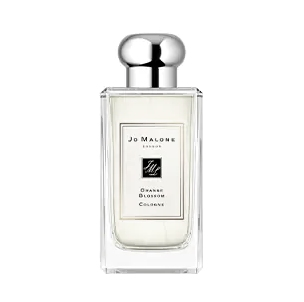
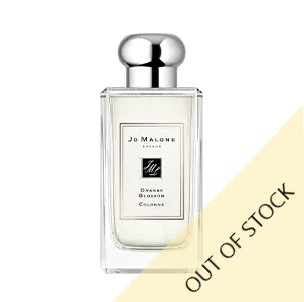
add product status

Changed region(s): [[0.3553, 0.3576, 1.0, 1.0]]

diff --git a/detailmimo.html b/detailmimo.html
@@ -47,6 +47,7 @@
 		<div class="detailed_product_box">
 			<div class="detailed_product_image_box">
 				<img src="img/t5.jpg" alt="product image" class="product_image_1" >
+				<h3 class="state">Out of Stock</h3>
 			</div>
 			<div class="detailed_product_text_box">
 				<h3>Mimosa & Cardamom</h3>
@@ -98,7 +99,7 @@
 				<div class="customer_review_text">
 					<h3 class="review_title">5/5</h3>
 					<h4 class="review_title">I would buy this for any woman in my life.</h4>
-					<p class="review_body">One day when I went to check the mail, my life changed. A random fashion magazine came for my roommate that he did not order. Or at least, he said he did not order it. But that isn't what this review is about. Not really caring to improve my women's fashion knowledge, I went through the magazine looking for the scent samples. I found 5 in the magazine, but this perfume was by far, the best.
+					<p class="review_body">
 					Fast forward a 2 years and I had a girlfriend. What to get her? Call it selfish, but I wanted something that we both could enjoy. Looked back through some old photos to find out the name of this amazing fragrance and boom. Christmas done right. We broke up and sadly she did not return the perfume to me, but its fine, I can buy it for the next lady in my life. Women may break your heart, but this scent? It puts the pieces back together again.</p>
 				</div>
 			</div>
@@ -117,8 +118,7 @@
 					<h4 class="review_title">Smells great but lacks sillage/longevity.</h4>
 					<p class="review_body">I love perfume in general so hopefully this review will help some people whether if they are debating on buying this or not.
 					I fell in love with the scent of this one. I had smelled this originally in one of those little magazine ads but I wanted to wait to smell it in person just because those don't really do justice for how it really smells.
-					Went to Kohls, tested it. Liked it and said I would eventually buy it for myself.
-					The best way I can describe the scent is fruit that is sweet, soapy and powdery but doesn't scream sickly sweet. If you are into the whole fruity/gourmand perfumes such as myself, then this may be up your alley. Out of all Ariana's fragrances, this is one of her more mature scents. Not saying that's a bad thing. Not saying you'll smell like an old grandma either. However, I wouldn't recommend blind buying this if you haven't smelt it in person because everyone perceives scents differently.</p>
+					The best way I can describe the scent is fruit that is sweet, soapy and powdery but doesn't scream sickly sweet. If you are into the whole fruity/gourmand perfumes such as myself, then this may be up your alley. Out of all Ariana's fragrances, this is one of her more mature scents. Not saying that's a bad thing. Not saying you'll smell like an old grandma either.</p>
 				</div>
 			</div>
 		</div>

diff --git a/detailorange.html b/detailorange.html
@@ -47,6 +47,7 @@
 			<div class="detailed_product_box">
 				<div class="detailed_product_image_box">
 					<img src="img/timg-2.jpg" alt="product image" class="product_image_1" >
+					<h3 class="state">On Sale: 30% OFF</h3>
 				</div>
 				<div class="detailed_product_text_box">
 					<h3>Orange Blossom</h3>
@@ -96,7 +97,7 @@
 					<div class="customer_review_text">
 						<h3 class="review_title">5/5</h3>
 						<h4 class="review_title">I would buy this for any woman in my life.</h4>
-						<p class="review_body">One day when I went to check the mail, my life changed. A random fashion magazine came for my roommate that he did not order. Or at least, he said he did not order it. But that isn't what this review is about. Not really caring to improve my women's fashion knowledge, I went through the magazine looking for the scent samples. I found 5 in the magazine, but this perfume was by far, the best.
+						<p class="review_body">
 						Fast forward a 2 years and I had a girlfriend. What to get her? Call it selfish, but I wanted something that we both could enjoy. Looked back through some old photos to find out the name of this amazing fragrance and boom. Christmas done right. We broke up and sadly she did not return the perfume to me, but its fine, I can buy it for the next lady in my life. Women may break your heart, but this scent? It puts the pieces back together again.</p>
 					</div>
 				</div>
@@ -114,8 +115,7 @@
 						<h3 class="review_title">3/5</h3>
 						<h4 class="review_title">Smells great but lacks sillage/longevity.</h4>
 						<p class="review_body">I love perfume in general so hopefully this review will help some people whether if they are debating on buying this or not.
-						I fell in love with the scent of this one. I had smelled this originally in one of those little magazine ads but I wanted to wait to smell it in person just because those don't really do justice for how it really smells.
-						Went to Kohls, tested it. Liked it and said I would eventually buy it for myself.
+						I fell in love with the scent of this one.
 						The best way I can describe the scent is fruit that is sweet, soapy and powdery but doesn't scream sickly sweet. If you are into the whole fruity/gourmand perfumes such as myself, then this may be up your alley. Out of all Ariana's fragrances, this is one of her more mature scents. Not saying that's a bad thing. Not saying you'll smell like an old grandma either. However, I wouldn't recommend blind buying this if you haven't smelt it in person because everyone perceives scents differently.</p>
 					</div>
 				</div>

diff --git a/productgift.html b/productgift.html
@@ -64,7 +64,7 @@
 
 			<div id="product_box_item">
 				<a href="detailorange.html">
-					<img src="img/PRO.png" alt="product image" class="product_image">
+					<img src="img/PRO2.png" alt="product image" class="product_image">
 				</a>
 				<h4>ORANGE BLOSSOM</h4>
 				<p class="product_text">Clementine flower sparkles over a heart of orange blossom and water lily,.</p>
@@ -76,7 +76,7 @@
 		<div id="product_box">
 			<div id="product_box_item">
 				<a href="detailmimo.html">
-					<img src="img/PRO.png" alt="product image" class="product_image">
+					<img src="img/PRO1.jpg" alt="product image" class="product_image">
 				</a>
 				<h4>MIMOSA & CARDAMOM</h4>
 				<p class="product_text">Clementine flower sparkles over a heart of orange blossom and water lily,s</p>

diff --git a/productnew.html b/productnew.html
@@ -64,7 +64,7 @@
 
 			<div id="product_box_item">
 				<a href="detailorange.html">
-					<img src="img/PRO.png" alt="product image" class="product_image">
+					<img src="img/PRO2.png" alt="product image" class="product_image">
 				</a>
 				<h4>ORANGE BLOSSOM</h4>
 				<p class="product_text">Clementine flower sparkles over a heart of orange blossom and water lily,.</p>
@@ -76,7 +76,7 @@
 		<div id="product_box">
 			<div id="product_box_item">
 				<a href="detailmimo.html">
-					<img src="img/PRO.png" alt="product image" class="product_image">
+					<img src="img/PRO1.Jpg" alt="product image" class="product_image">
 				</a>
 				<h4>MIMOSA & CARDAMOM</h4>
 				<p class="product_text">Clementine flower sparkles over a heart of orange blossom and water lily,s</p>

diff --git a/addcomment.html b/addcomment.html
@@ -65,7 +65,7 @@
 			<div class="customer_review_header">
 				<h2>Add Reviews</h2>
 			</div>
-			<input  class="comment" type="text" placeholder="write your comment"   name="lname" /> <input type="button" value="submit" class="commentbutton" onclick='location.href=("detail.html")' />
+			<input  class="comment" type="text" placeholder="write your comment"   name="lname" /> <input type="button" value="submit" class="commentbutton" onclick='location.href=("addcomment.html")' />
 
 
 	</body>

diff --git a/product.html b/product.html
@@ -62,7 +62,7 @@
 
 			<div id="product_box_item">
 				<a href="detailorange.html">
-					<img src="img/PRO2.jpg" alt="product image" class="product_image">
+					<img src="img/PRO2.png" alt="product image" class="product_image">
 				</a>
 				<h4>ORANGE BLOSSOM</h4>
 				<p class="product_text">Clementine flower sparkles over a heart of orange blossom and water lily,.</p>

diff --git a/css/style.css b/css/style.css
@@ -10,6 +10,9 @@
 	}
 }
 
+.state{
+	color: red;
+}
 .comment{ 
 	width: 70%;
 	font-family: 'cinzel', sans-serif; 
